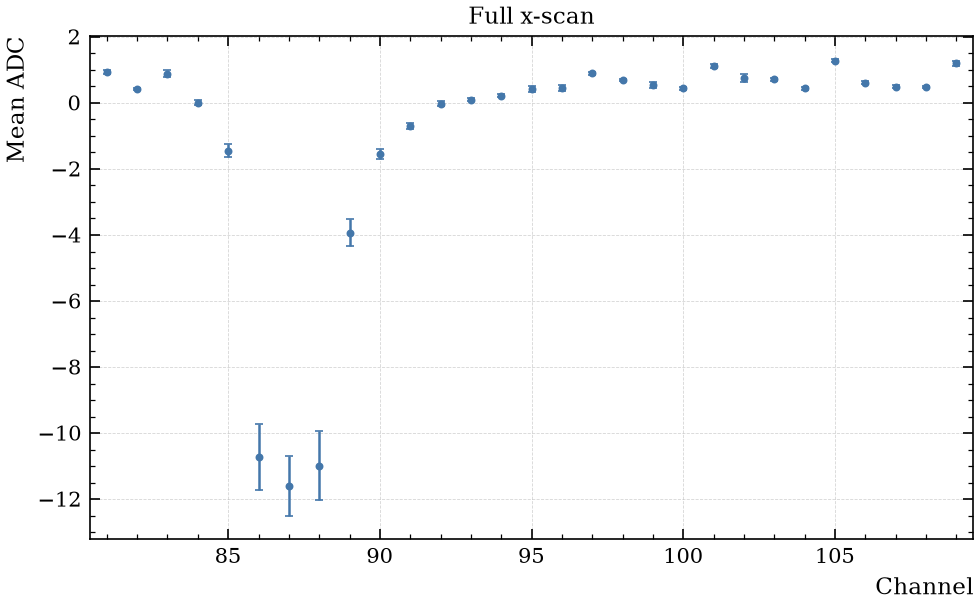
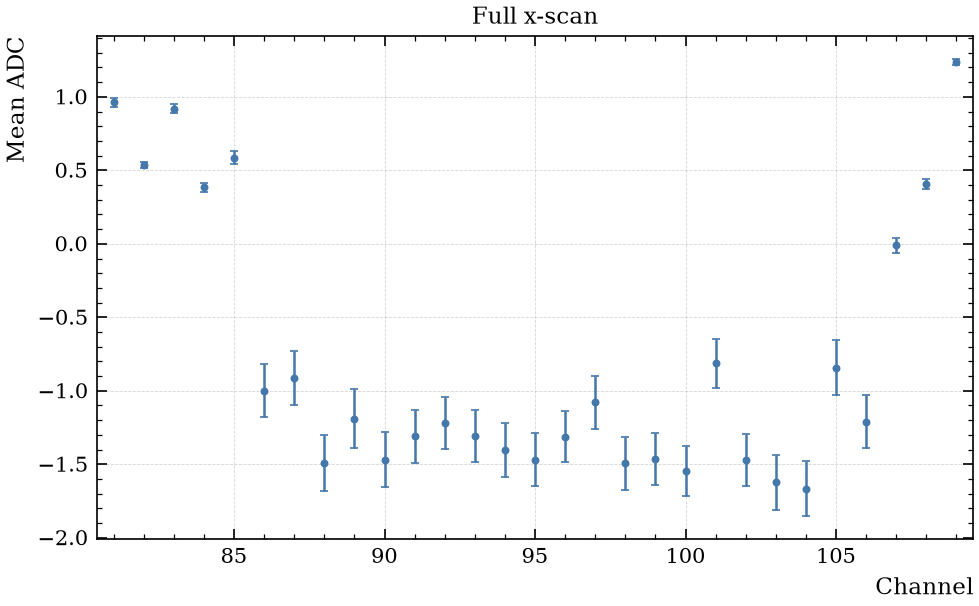
ana

diff --git a/adc_vs_channel_ana.py b/adc_vs_channel_ana.py
@@ -6,6 +6,7 @@ Example analysis: mean cleaned ADC against channel, over all runs.
 """
 
 import matplotlib.pyplot as plt
+import matplotlib.ticker as tck
 import pandas as pd
 import numpy as np
 
@@ -23,6 +24,8 @@ class AdcVsChannel(BaseAnalysis):
     # One file with x triggers
     # Return the average over triggers
     def process(self, df: pd.DataFrame, df_id: int, z: float, x: float) -> None:
+        # if x > 9.2:
+        #     return
         # ADC MEAN PER CHANNEL
         mean_per_channel = df.groupby("channel")["adc_clean"].agg(value="mean", error="sem").reset_index()
         self.add(ADC_CLEAN, mean_per_channel, z=z, x=x)
@@ -37,7 +40,7 @@ class AdcVsChannel(BaseAnalysis):
         d = self.get(ADC_CLEAN)
         # Average over the runs for each channel
         by_channel = d.groupby("channel")["value"].agg(["mean", "sem"])
-
+        
         fig, ax = plt.subplots(1, 1)
         ax.errorbar(by_channel.index, by_channel["mean"], yerr=by_channel["sem"], fmt="o", ms=3)
         ax.set_xlabel("Channel")
@@ -66,17 +69,6 @@ class AdcVsChannel(BaseAnalysis):
             index="x", columns="channel", values="value", aggfunc="mean")
         active = hits.columns[hits.sum() > 0.05 * hits.sum().max()]   # channels with real hits
 
-        fig, ax = plt.subplots(1, 1)
-        for ch in active:
-            ax.plot(hits.index, hits[ch], "-o", ms=2, label=f"Ch {int(ch)}")
-        ax.plot(hits.index, hits.sum(axis=1), "k--", lw=1, label="Sum")
-        ax.legend()
-        ax.set_xlabel("Position in x [mm]")
-        ax.set_ylabel("Hits")
-        ax.set_title(f"{self.cfg.hit_threshold} ADC hit threshold")
-        fig.savefig(self.plotdir / "hits_vs_x.png", dpi=150)
-        plt.close(fig)
-
         # All channels at once
         fig, ax = plt.subplots(1, 1)
         mesh = ax.pcolormesh(hits.index, hits.columns, hits.T.to_numpy(), shading="nearest")
@@ -84,8 +76,24 @@ class AdcVsChannel(BaseAnalysis):
         ax.set_xlabel("Position in x [mm]")
         ax.set_ylabel("Channel")
         ax.set_ylim(active.min() - 3, active.max() + 3)   # skip the empty channels
+        ax.xaxis.set_minor_locator(tck.AutoMinorLocator())
+        ax.yaxis.set_minor_locator(tck.AutoMinorLocator())
+        ax.tick_params(which="both", width=1, direction="out")   
         ax.set_title(f"{self.cfg.hit_threshold} ADC hit threshold")
+        ax.set_xlim(7.9, 9.2)
         fig.savefig(self.plotdir / "hits_map.png", dpi=150)
+        plt.close(fig)
+
+        fig, ax = plt.subplots(1, 1)
+        for ch in active:
+            ax.plot(hits.index, hits[ch], "-o", ms=2, label=f"Ch {int(ch)}")
+        # ax.plot(hits.index, hits.sum(axis=1), "k--", lw=1, label="Sum")
+        ax.legend(fontsize='small', ncols=2)
+        ax.set_xlabel("Position in x [mm]")
+        ax.set_ylabel("Hits")
+        ax.set_title(f"{self.cfg.hit_threshold} ADC hit threshold")
+        ax.set_xlim(7.9, 9.2)
+        fig.savefig(self.plotdir / "hits_vs_x.png", dpi=150)
         plt.close(fig)
 
 
